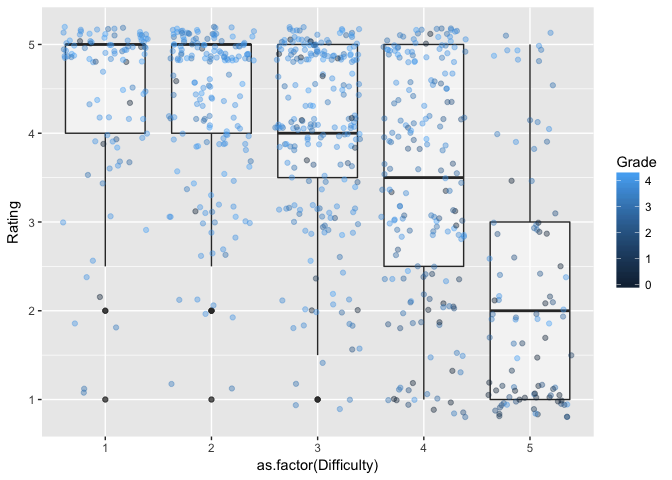
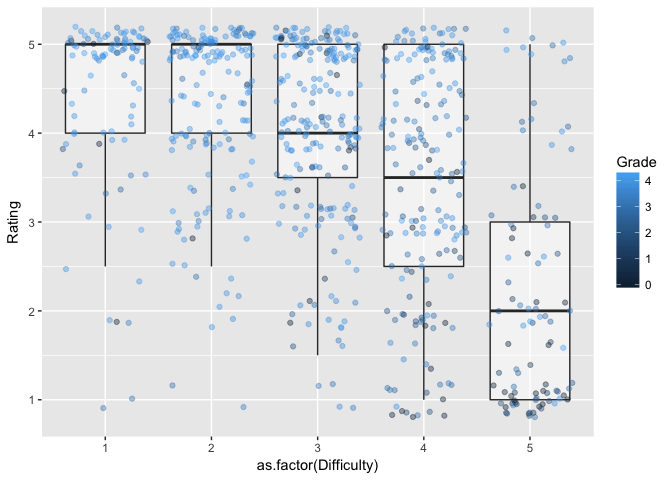
Added hardgood. Final

diff --git a/hw10/ScrapingBy.md b/hw10/ScrapingBy.md
@@ -29,23 +29,59 @@ We begin by reading the scraped data:
 
 
 ```r
-data <- suppressMessages(read_csv("rmp_data.csv")[-1])
+data <- suppressMessages(read_csv("rmp_data.csv"))
 ```
 
 ```
 ## Warning: Missing column names filled in: 'X1' [1]
 ```
 
+## How do difficulty and quality correlate?
+
 The first thing is to look for correlation between difficulty and overall rating:
 
 
 ```r
-ggplot(data[complete.cases(data$Grade),], aes(x = as.factor(Difficulty), y = Rating)) + geom_boxplot(alpha = 0.5) + geom_jitter(aes(colour = Grade), alpha = 0.4)
+ggplot(data[complete.cases(data$Grade),], aes(x = as.factor(Difficulty), y = Rating)) + 
+  geom_boxplot(alpha = 0.5, outlier.alpha = 0) + # outlier.alpha = 0 to avoid showing outliers here
+  geom_jitter(aes(colour = Grade), alpha = 0.4)
 ```
 
 ![](ScrapingBy_files/figure-html/unnamed-chunk-3-1.png)<!-- -->
 
-I remove people who didn't report their grade (using `complete.cases()`) since they tended to overwhelm those that did. 
+I remove people who didn't report their grade (using `complete.cases()`) since they tended to overwhelm those that did. We can clearly see that the difficulty rating of 5 seems to be mostly reserved for reviews from failing students who give the professors a bad overall rating as well (it may be that students reserve it for professors who they feel make the course more difficult than it should).
+
+## What makes a professor difficult but good?
+
+We might want to see what reasons someone would give for a good but difficult rating:
+
+
+```r
+hard <- filter(data, Difficulty == 5)
+good <- filter(data, Rating == 5)
+
+hardgood <- inner_join(hard, good)
+```
+
+```
+## Joining, by = c("X1", "University", "Department", "Professor", "Course", "Difficulty", "Rating", "Comments", "Date", "Unhelpful", "Helpful", "Grade")
+```
+
+```r
+head(hardgood$Comments)
+```
+
+```
+## [1] "Hard but amazing teacher"                                                                                                                                                                                                                                                                    
+## [2] "Bonnie is a great professor.  Hard as hell but you will learn a lot."                                                                                                                                                                                                                        
+## [3] "She is demanding but of highest quality....by far the best I have had at Parkersburg."                                                                                                                                                                                                       
+## [4] "Ignore the haters. Edwards is an amazing professor. Yeah, he yells but he will answer any question you ask and he has a zillion different ways of explaining things. If you do the homework, you should be okay on the quizzes and exams. I never liked math but I loved taking this course."
+## [5] "Excellent instructor"                                                                                                                                                                                                                                                                        
+## [6] "Best Prof ever ... truly illuminating."
+```
+
+
+## When do students rate the most?
 
 We also might want to see how ratings correlate with the date, perhaps harder ratings occur in December and April when most universities have exams?
 
@@ -62,13 +98,16 @@ data$Date <- data$Date %>%
 ```
 
 ```r
-ggplot(data, aes(x = Date)) + geom_density(alpha = 0.2)
+ggplot(data, aes(x = Date)) + geom_density(alpha = 0.2, fill = 'blue')
 ```
 
-![](ScrapingBy_files/figure-html/unnamed-chunk-4-1.png)<!-- -->
+![](ScrapingBy_files/figure-html/unnamed-chunk-5-1.png)<!-- -->
 
 We can see that there's normally a lull at the beginning of the semester, before reviews pick up towards the end of it.
 
+## Which department has students that complain the most?
+
+I also want to use this data to find which department has the students that complain the most.
 
 
 ```r
@@ -90,7 +129,7 @@ knitr::kable(head(depdata))
 |Biology      | 3.280000|      75|
 |Business     | 3.150327|     153|
 
-I want to use this data to find which department has the students that complain the most. On first thought it might be tempting to say it's the department with the worst average, but Chemical Engineering departments only have 2 reviews (second place, Speech Pathology & Audiology only has 13), so clearly there's only a very small minority that likes to complain a lot. Next we might say that it's the department with the most reviews, but Communication has an average difficulty rating of 2.8; clearly Communication students like to communicate a lot, but not necessarily to complain (interestingly "Communications" departments have a much worse difficulty rating, but very few ratings).
+On first thought it might be tempting to say it's the department with the worst average, but Chemical Engineering departments only have 2 reviews (second place, Speech Pathology & Audiology only has 13), so clearly there's only a very small minority that likes to complain a lot. Next we might say that it's the department with the most reviews, but Communication has an average difficulty rating of 2.8; clearly Communication students like to communicate a lot, but not necessarily to complain (interestingly "Communication**s**" departments have a much worse difficulty rating, but very few ratings).
 
 If we limit ourselves to the only those with more than 100 reviews we get: 
 
@@ -124,3 +163,6 @@ depdata %>%
 |Fine Arts         | 2.770335|     209|
 
 It seems like one could make an argument for the most frequent complainers being from either Computer Science, Economics, or History. (Interestingly, physics and chemistry both have even higher average difficulty ratings than computer science but surprisingly have less than 40 reviews.)
+
+
+

diff --git a/hw10/README.md b/hw10/README.md
@@ -1,11 +1,11 @@
 # Homework README
 
 ## Summary
-For this assignment, I decided that I would like to scrape data from [RateMyProfessor](http://www.ratemyprofessors.com/), mainly to see if there are any interesting patterns there (for the unfamiliar RMP is a site where students can review professors they've taken courses from, these reviews include ratings and various other pieces of information, see screenshot below). 
+For this assignment, I decided that I would like to scrape data from [RateMyProfessor](http://www.ratemyprofessors.com/), mainly to see if there are any interesting patterns there. For the unfamiliar, it's a website where students can review professors they've taken courses from, these reviews include ratings and various other pieces of information, see screenshot below:
 
 ![](figures/SampleReview.png)
 
-The function I used is in the [dataframing.R](https://github.com/arsbar24/STAT545-hw-barton-alistair/blob/master/hw10/dataframing.R) file, and collects various pieces of information pertaining to the review (in particular: the University, Department, Professor, Course, Difficulty, the overall rating, their comments, Date of review, how many people found it helpful/unhelpful, and the grade obtained by the reviewer).
+The function I used is in the [dataframing.R](https://github.com/arsbar24/STAT545-hw-barton-alistair/blob/master/hw10/dataframing.R) file, and collects the circled pieces of information above for each review (in particular: the University, Department, Professor, Course, Difficulty, the overall rating, their comments, Date of review, how many people found it helpful/unhelpful, and the grade obtained by the reviewer).
 
 ## [Scraping function](https://github.com/arsbar24/STAT545-hw-barton-alistair/blob/master/hw10/dataframing.R)
 
@@ -32,3 +32,19 @@ This file showcases a couple of ways to use the data.
 ## Makefile
 
 I used a makefile in order to update my project to make it consistent before any uploads, but my project ended up having a much simpler structure than I anticipated, so I don't think it was necessary strictly speaking.
+
+
+## Questions
+
+There are a couple places where I solved a problem in a way that might be suboptimal:
+
+* **Ordering grades:** The default way to do this is alphabetically, which puts A ahead of A+. I fixed this by converting to GPA via a case-by-case function, but there might be an easier way. 
+
+* **Wrapping around the density kernel:** To figure out how frequent ratings are at different times of the year I converted my dates to a month-day format and gave a density plot. The problem with this is that the density plot doesn't account for reviews from January 1st in the density for December 31st, but I don't know how to make this work.
+
+* **Loading all reviews:** (As mentioned above) RateMyProfessors only displays 20 reviews at a time. To load more you have click a button at the bottom of the page. I couldn't find out how to scrape these extra results. I would've like to have had them.
+
+
+## Reflections
+
+I found this project very interesting, even if the scraping function is a bit mechanical. I think I might see this as the most useful thing I learnt in this course as it gives me the tools to investigate a wide range of things under the proper motivation. I also enjoyed this assignment because I felt it allowed me to combine a lot of what I learnt in the first half of the course, refreshing my memory.
